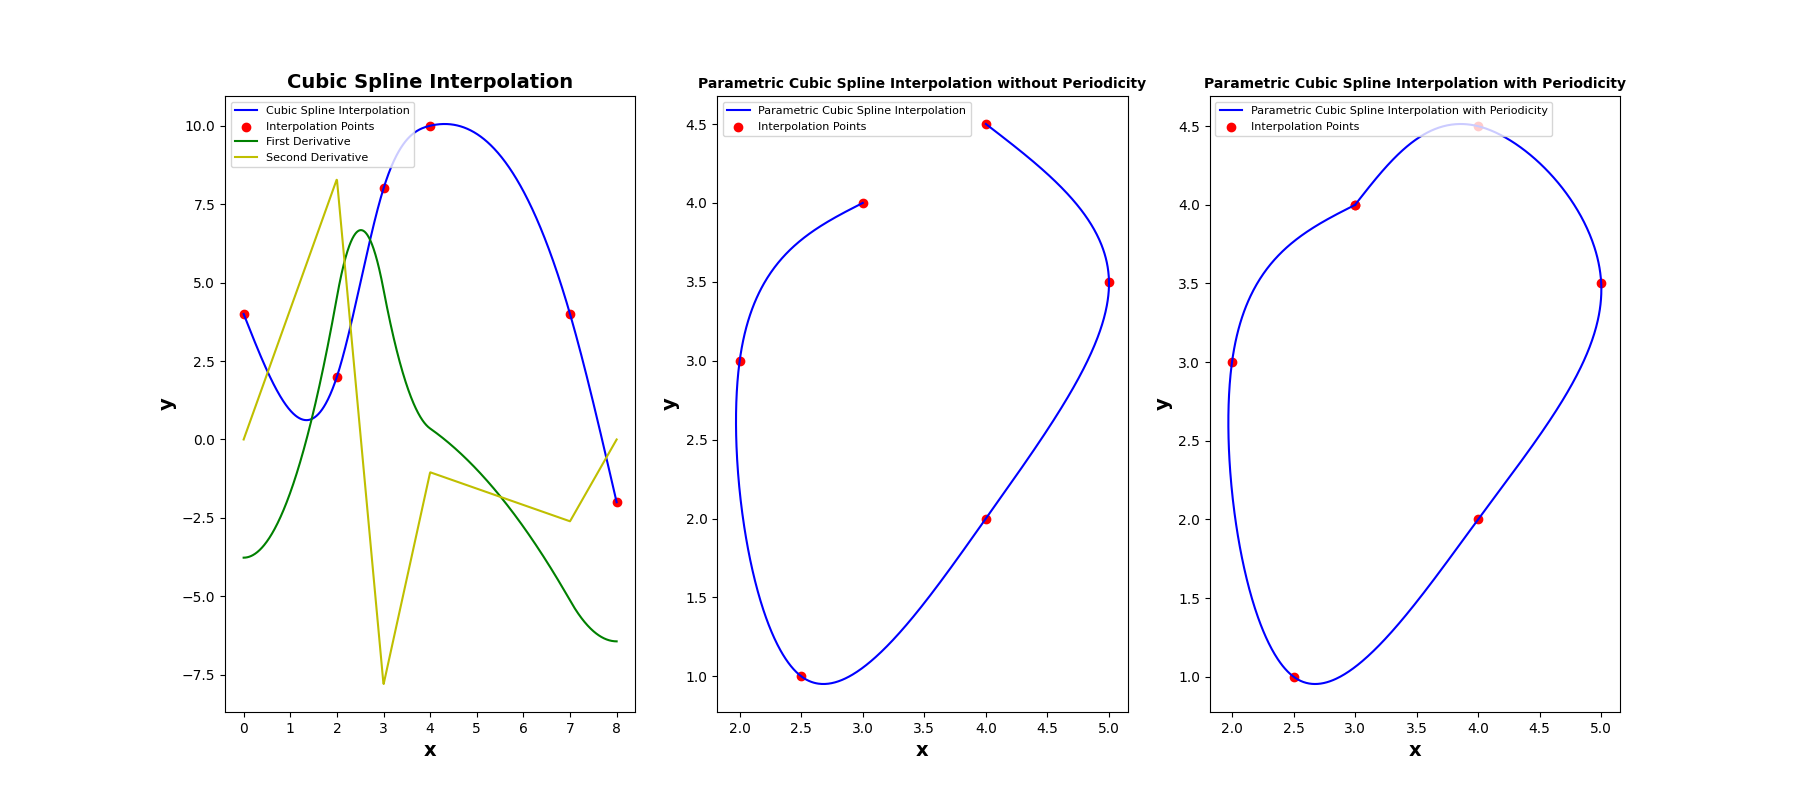
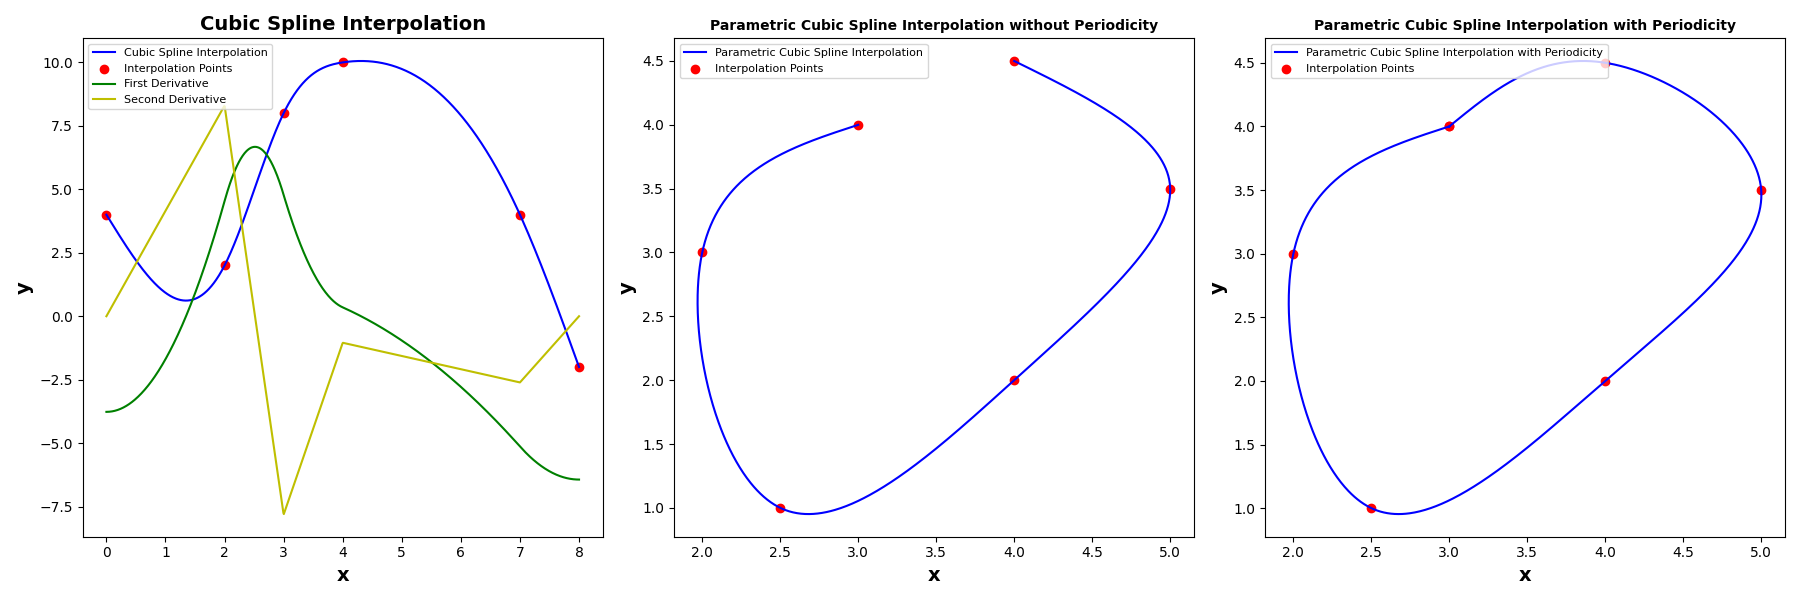
ready to submit

diff --git a/HW_3/Itna_HW_3_Q_3.py b/HW_3/Itna_HW_3_Q_3.py
@@ -135,18 +135,23 @@ def parametric_cubic_spline(x_i, y_i):
     return spline_coeffs_x, spline_coeffs_y, t
 
 def main():
+    """
+    The main function of the script
+    :return: plots the interpolation functions
+    """
+
     x_i = np.array([0, 2, 3, 4, 7, 8])
     y_i = np.array([4, 2, 8, 10, 4, -2])
     n = len(x_i)
 
     spline_coeffs = natural_cubic_spline(x_i, y_i)
-    print('The coefficients of the cubic spline are:')
+    print('\nThe coefficients of the cubic spline are:')
     print(spline_coeffs)
 
     x_segment = np.linspace(0, 8, 1000)
     y_segment = [evaluate_spline(x_i, spline_coeffs, xi)[0] for xi in x_segment]
 
-    fig, ax = plt.subplots(1, 3, figsize=(18, 8))
+    fig, ax = plt.subplots(1, 3, figsize=(18, 6))
     ax[0].plot(x_segment, y_segment, label='Cubic Spline Interpolation', color='b')
     ax[0].scatter(x_i, y_i, color='r', label='Interpolation Points')
     ax[0].set_title('Cubic Spline Interpolation', fontweight='bold', fontsize=14)
@@ -189,6 +194,7 @@ def main():
     ax[2].set_xlabel('x', fontweight='bold', fontsize=14)
     ax[2].set_ylabel('y', fontweight='bold', fontsize=14)
     ax[2].legend(fontsize = 8, loc='upper left')
+    plt.tight_layout()
     plt.show()
 
     # save the plot
